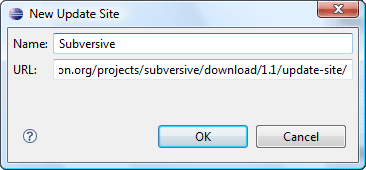
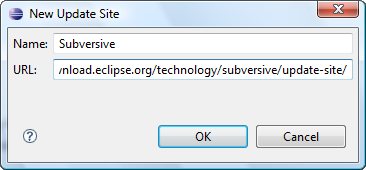
Check for licensing policies
git-svn-id: https://dev.eclipse.org/svnroot/technology/org.eclipse.subversive/trunk@3808 ee007c2a-0a25-0410-9ab9-bf268980928c

diff --git a/org.eclipse.team.svn.help/gettingStarted/aboutSubversive/install.html b/org.eclipse.team.svn.help/gettingStarted/aboutSubversive/install.html
@@ -45,6 +45,22 @@
 			</ul>
 			<br/>Click on the <i>'OK'</i> button to store update site information.
 			<br/><br/><img border="0" src="../../images/new_update_site.png" alt="New update site"/><br/><br/>
+			Also you should install some Subversive compatible SVN Client. You can do the following in such a simple way: <br/><br/>
+			On the <i>'New Update Site'</i> dialog enter the name of clients' update site and the URL. Use following values:
+			<ul>
+				<li>
+					<b>Name:</b> Subversive Supported Clients
+				</li>
+				<li>
+					<b>URL:</b> <a href="http://www.polarion.org/projects/subversive/download/eclipse/update-site/">http://www.polarion.org/projects/subversive/download/eclipse/update-site/</a>
+				</li>
+				<li>
+					<i>Please note that the use of the software you are about to access may be subject to third party terms and conditions and you are responsible for abiding by such terms and conditions.</i>
+				</li>
+
+			</ul>
+			<br/>Click on the <i>'OK'</i> button to store update site information.
+			<br/><br/><img border="0" src="../../images/update_site_clients.png" alt="New update site"/><br/><br/>		
 		</li>
 		<li>
 			To start features search in the list of the update sites the user should select <i>'Subversive'</i> and click on the <i>'Finish'</i> button.
@@ -92,7 +108,9 @@
 			<br/><br/><img border="0" src="../../images/restart_dialog.png" alt="Restart dialog"/><br/><br/>
 		</li>
 		<li>
-			After Eclipse restart you should install some Subversive compatible SVN Client. Then you are able to start using Subversive. You can find Subversive perspective and views in correspondent dialogs, activated by menu items <i>'Window > Open Perspective > Other...'</i> and <i>'Window > Show View > Other...'</i>.
+			After Eclipse restart you are able to start using Subversive.<br/><br/>
+		</li>
+		<li> You can find Subversive perspective and views in correspondent dialogs, activated by menu items <i>'Window > Open Perspective > Other...'</i> and <i>'Window > Show View > Other...'</i>.
 			<br/><br/>
 			<table border="0" cellpadding="5" cellspacing="0">
 				<tr>
